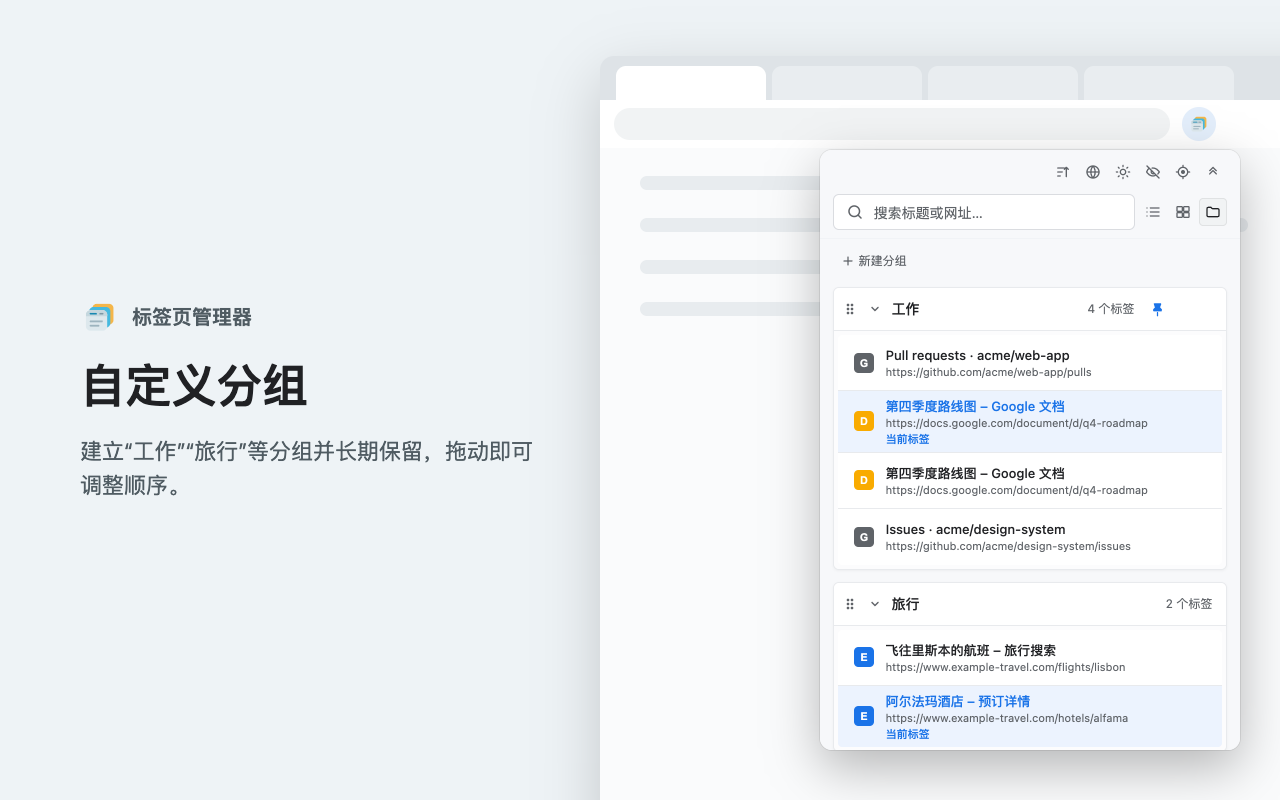
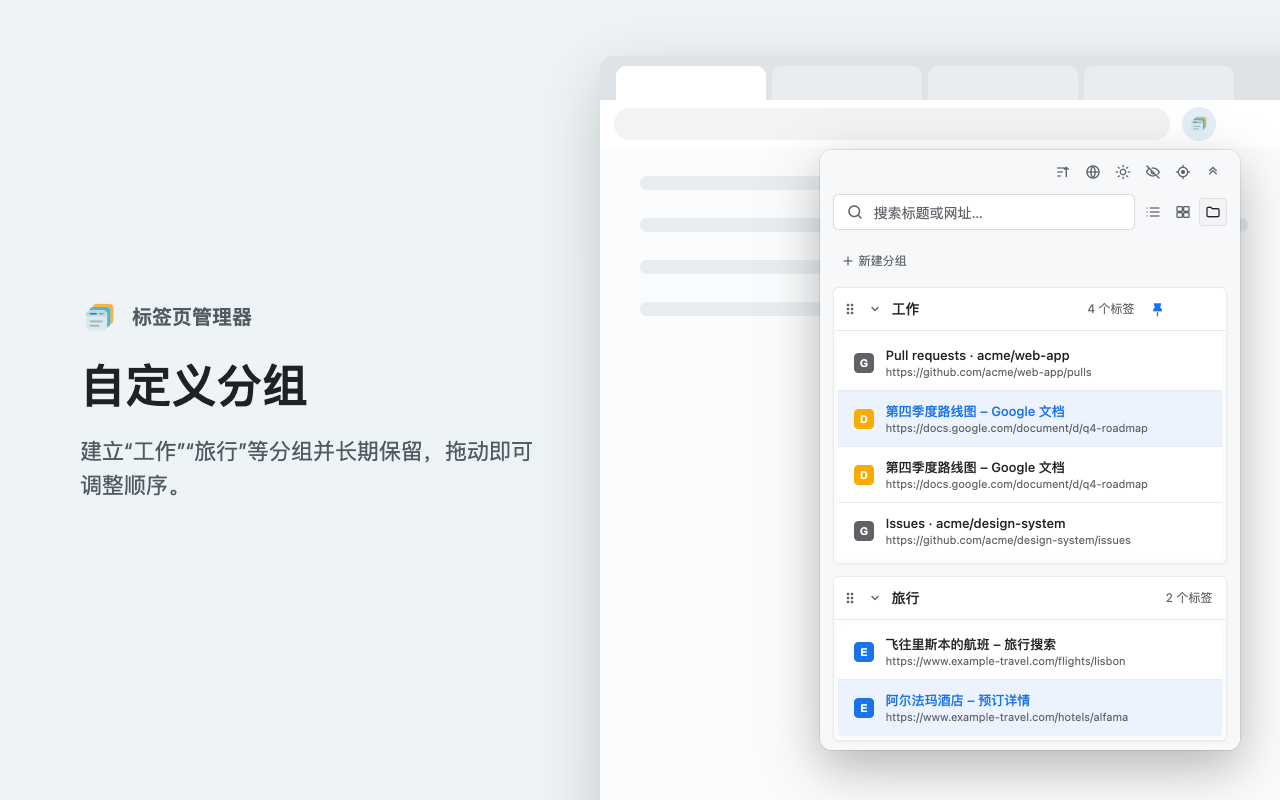
feat: remove the "Current tab" label under the active tab row
The active row keeps its highlight and aria-current="page"; screen
readers still announce it via the "current tab" suffix in the button
label. Drops the now-unused currentTab i18n key in all three locales and
regenerates the store screenshots and promo tiles.

Changed region(s): [[0.6562, 0.5, 0.9062, 0.6875], [0.6562, 0.7188, 0.875, 0.9375], [0.9062, 0.7188, 0.9375, 0.7812]]

diff --git a/src/components/TabRow.tsx b/src/components/TabRow.tsx
@@ -62,7 +62,7 @@ export function TabRow({
   return <li className={rowClassName} data-tab-id={tab.id} aria-busy={pending || undefined}>
     <button type="button" className="tab-main" aria-label={activationLabel} aria-current={tab.active ? 'page' : undefined} disabled={pending} onClick={() => onActivate(tab)}>
       {faviconUrl ? <img src={faviconUrl} alt="" /> : <Icon name="tab" />}
-      <span className="tab-copy"><span className="tab-title">{tab.displayTitle}</span>{!tab.masked && tab.displayUrl ? <span className="tab-url">{tab.displayUrl}</span> : null}{tab.active ? <span className="current-label">{t('currentTab')}</span> : null}</span>
+      <span className="tab-copy"><span className="tab-title">{tab.displayTitle}</span>{!tab.masked && tab.displayUrl ? <span className="tab-url">{tab.displayUrl}</span> : null}</span>
     </button>
     <button type="button" className="icon-button tab-action row-action-button row-privacy-action" aria-label={privacyLabel} onClick={(event) => isolateAction(event, onToggleMask)}><Icon name={tab.masked ? 'eye' : 'eye-off'} width={15} height={15} /></button>
     <button type="button" className={`icon-button tab-action row-action-button row-copy-action${copied ? ' is-copied' : ''}`} aria-label={t('copyTabLink')} data-copied={copied || undefined} disabled={pending} onClick={(event) => isolateAction(event, onCopy)}><Icon name={copied ? 'check' : 'copy'} width={15} height={15} /></button>

diff --git a/src/i18n/i18n.ts b/src/i18n/i18n.ts
@@ -56,7 +56,6 @@ export const messages = {
     showAllInformation: '显示全部标签信息',
     hideAllInformation: '隐藏全部标签信息',
     tabCount: '{count} 个标签',
-    currentTab: '当前标签',
     currentTabSuffix: '，当前标签',
     activateMaskedTab: '切换到隐藏的标签页{current}',
     showTabInformation: '显示此标签信息',
@@ -163,7 +162,6 @@ export const messages = {
     showAllInformation: '顯示全部分頁資訊',
     hideAllInformation: '隱藏全部分頁資訊',
     tabCount: '{count} 個分頁',
-    currentTab: '目前分頁',
     currentTabSuffix: '，目前分頁',
     activateMaskedTab: '切換到隱藏的分頁{current}',
     showTabInformation: '顯示此分頁資訊',
@@ -270,7 +268,6 @@ export const messages = {
     showAllInformation: 'Show all tab information',
     hideAllInformation: 'Hide all tab information',
     tabCount: '{count} {count, plural, one {tab} other {tabs}}',
-    currentTab: 'Current tab',
     currentTabSuffix: ', current tab',
     activateMaskedTab: 'Switch to hidden tab{current}',
     showTabInformation: 'Show this tab information',

diff --git a/src/App.test.tsx b/src/App.test.tsx
@@ -340,12 +340,12 @@ describe('TabRow', () => {
     expect(
       screen.getByRole('button', { name: '隐藏此标签信息' }),
     ).not.toHaveAttribute('title')
-    expect(screen.getByText('当前标签')).toHaveClass('current-label')
-    expect(screen.getByText('当前标签').closest('li')).toHaveClass('is-active')
+    expect(screen.queryByText('当前标签')).not.toBeInTheDocument()
     expect(screen.getByRole('button', { name: `${originalTitle}，当前标签` })).toHaveAttribute(
       'aria-current',
       'page',
     )
+    expect(screen.getByRole('button', { name: `${originalTitle}，当前标签` }).closest('li')).toHaveClass('is-active')
 
     await user.click(screen.getByRole('button', { name: `${originalTitle}，当前标签` }))
     expect(onActivate).toHaveBeenCalledTimes(1)
